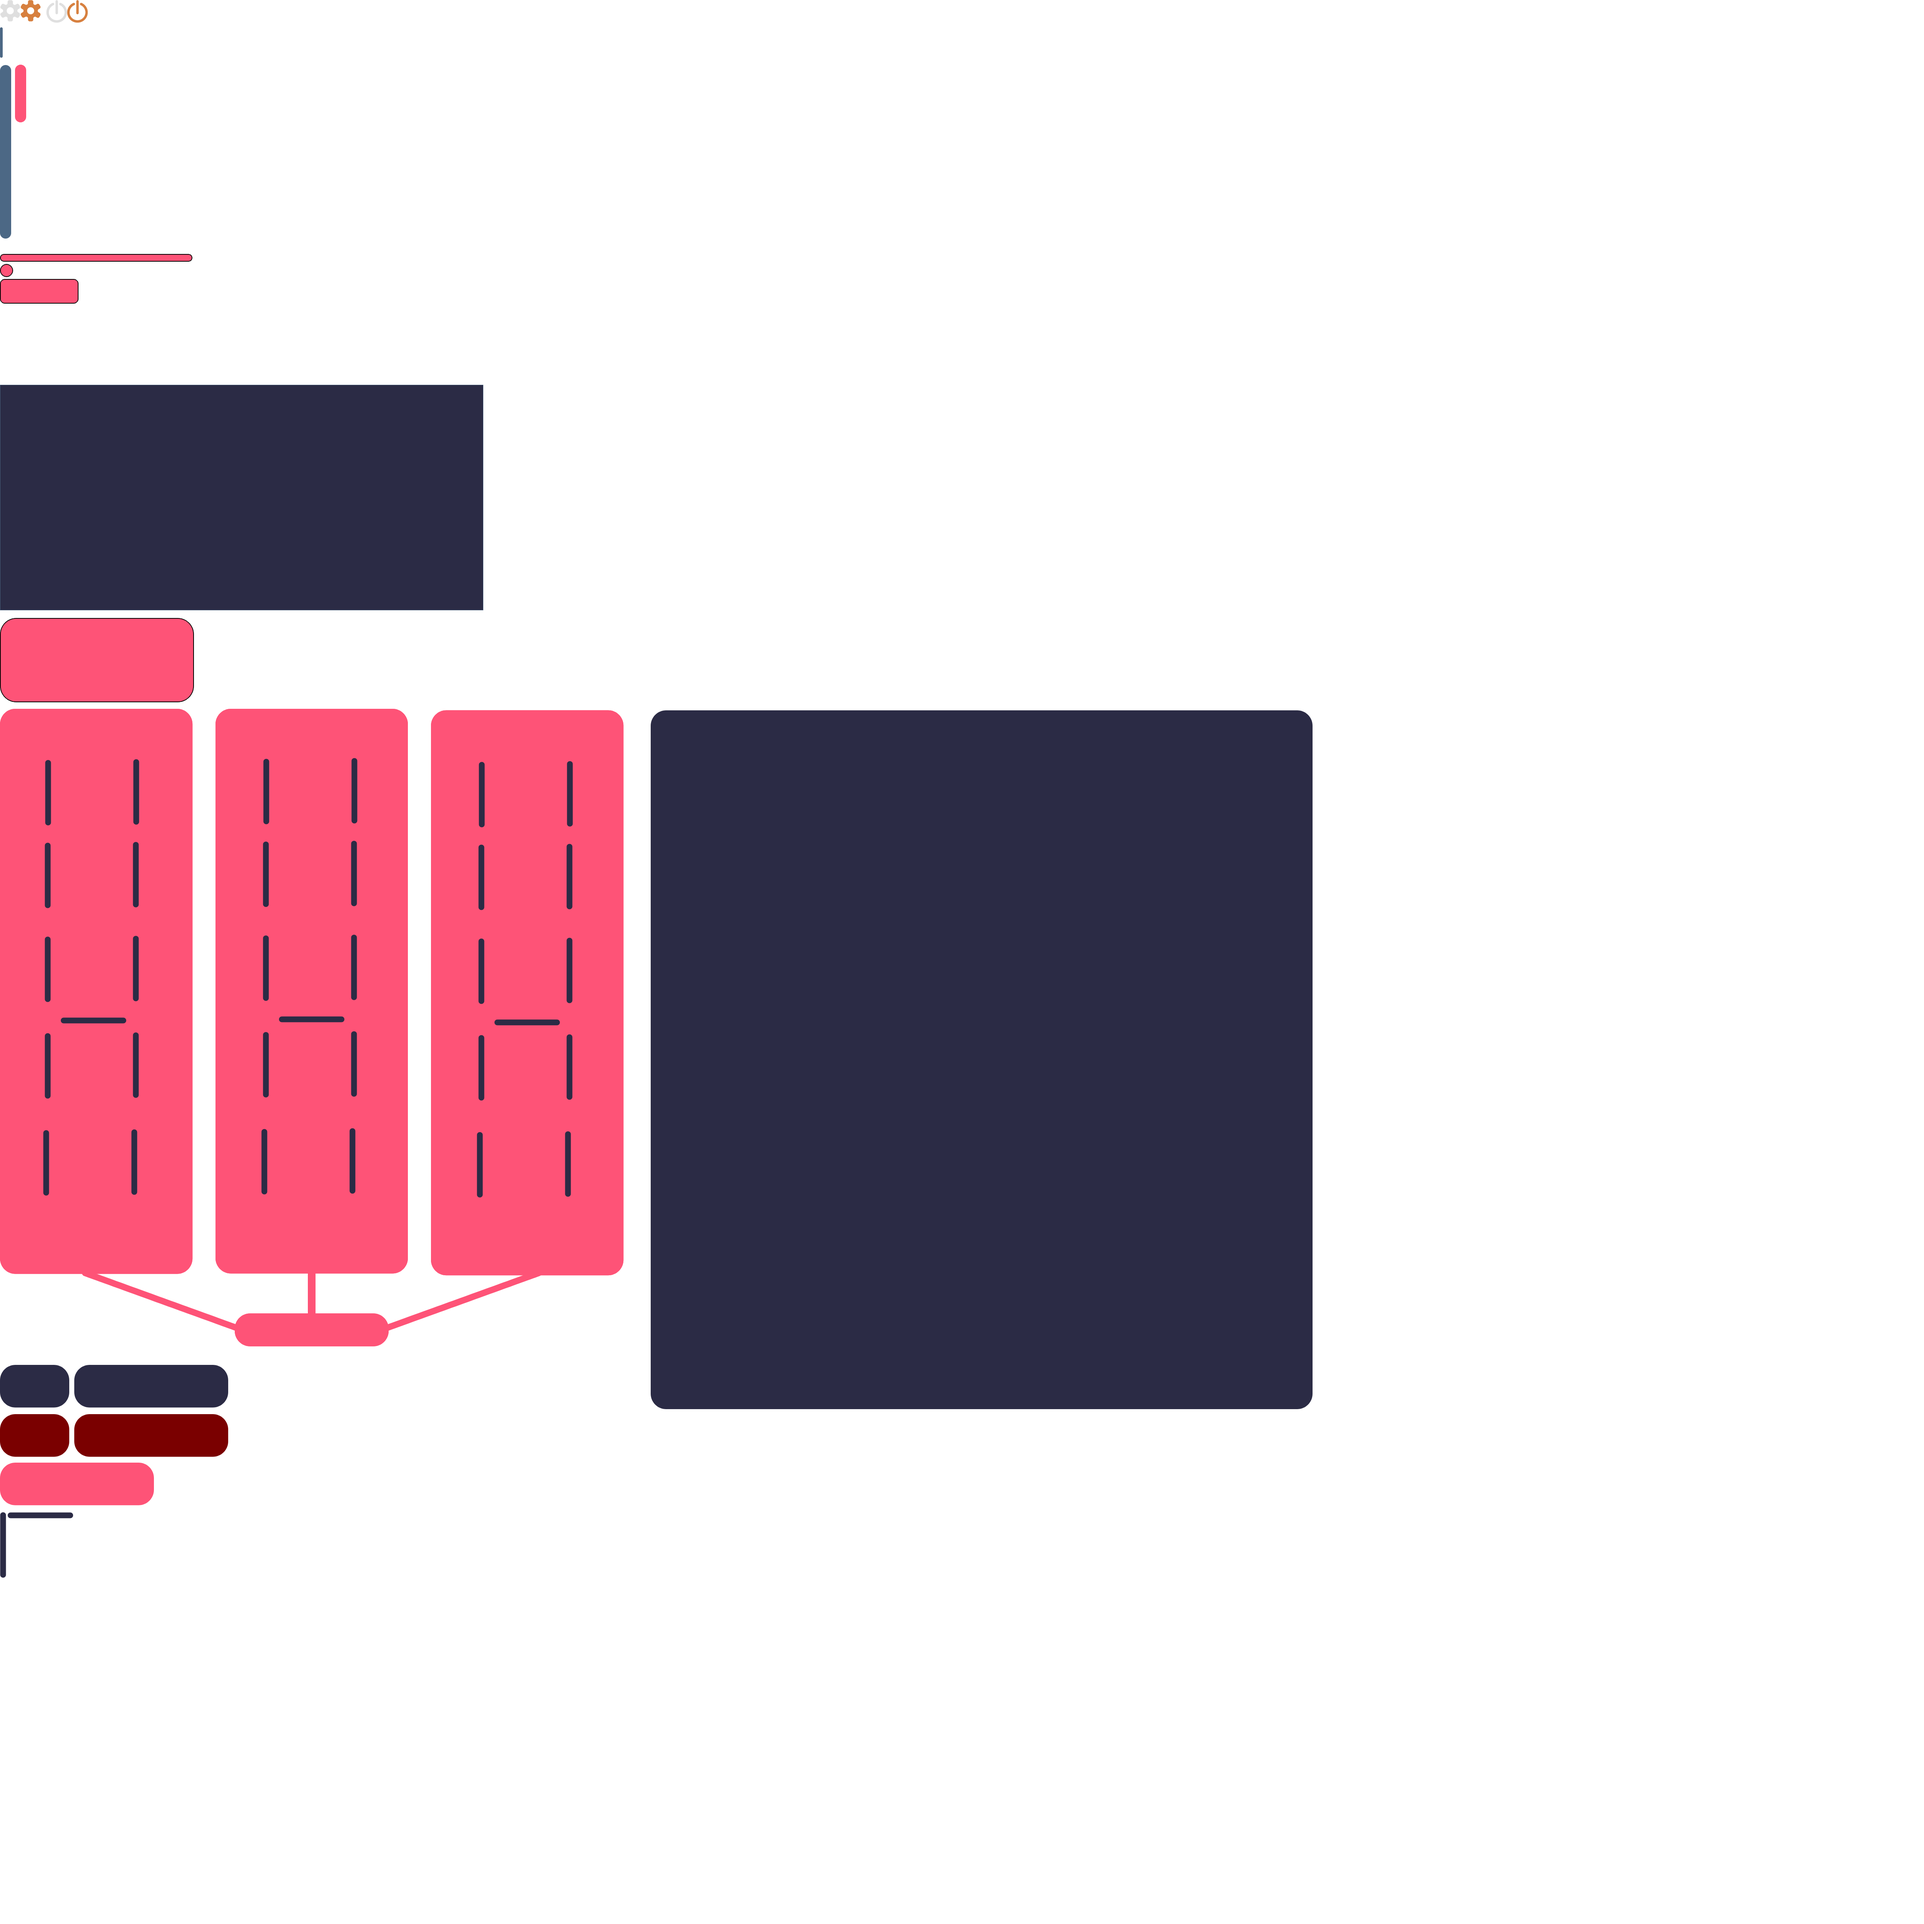
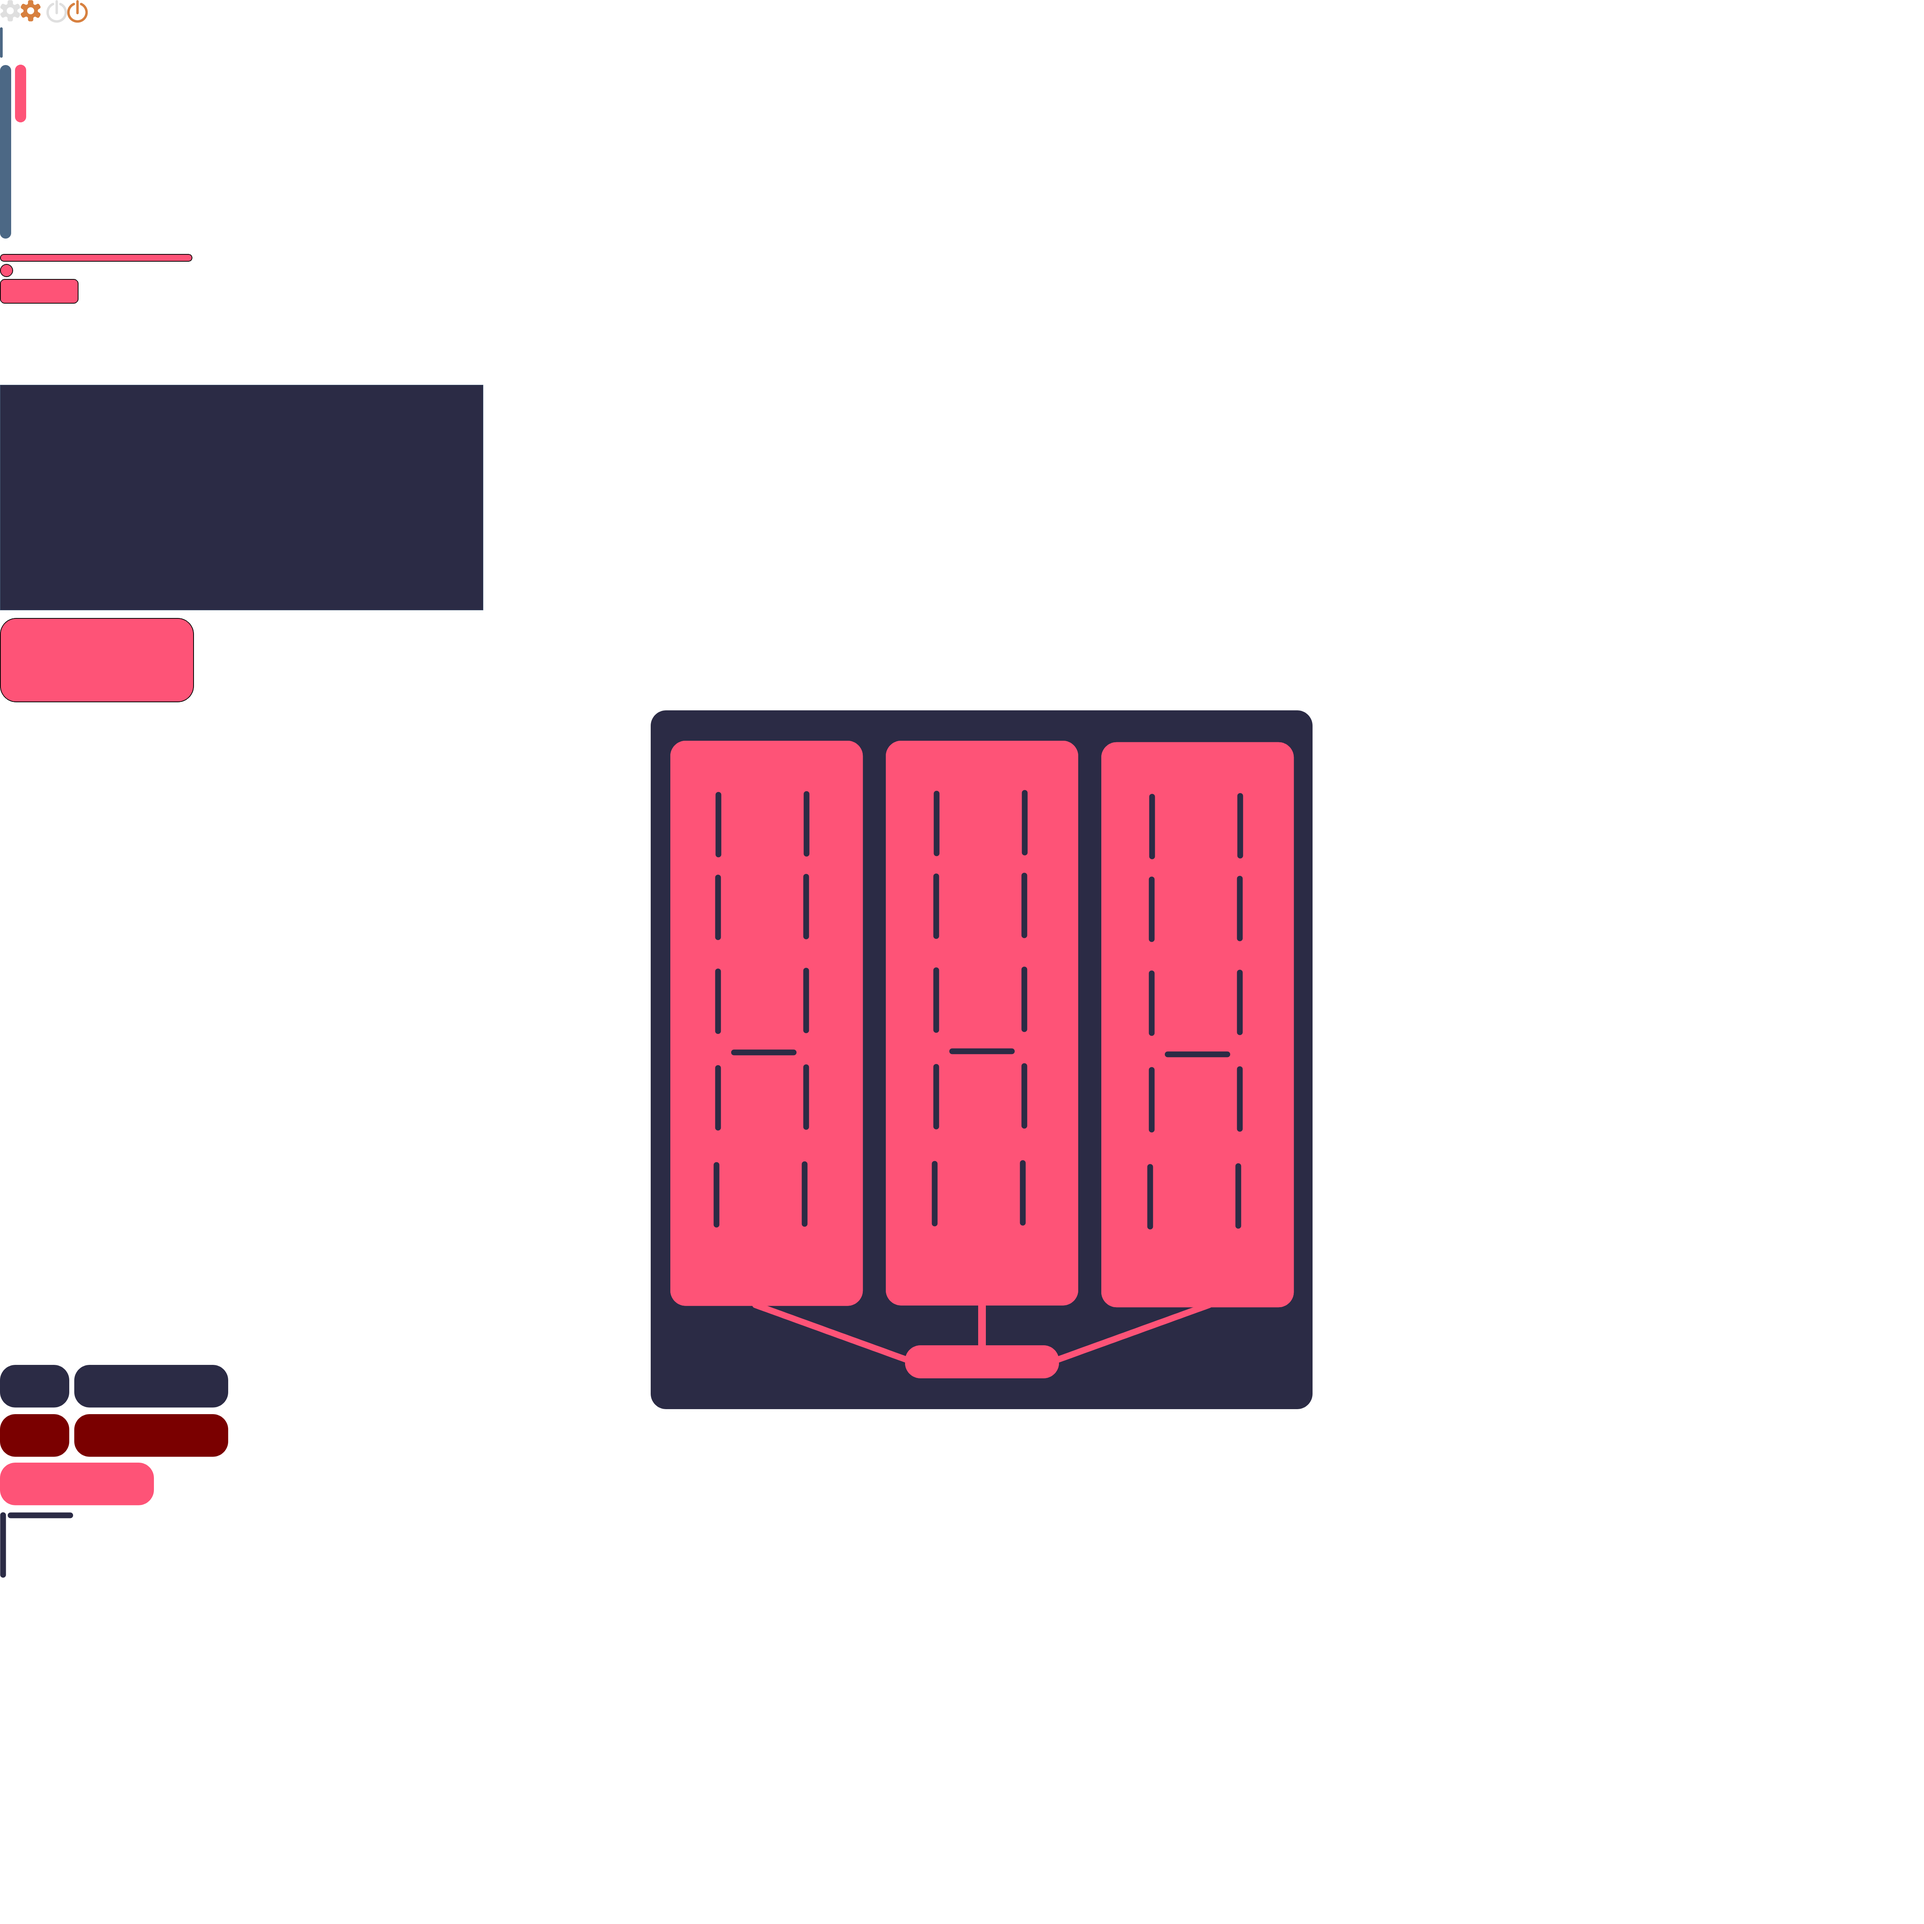
[ADD] Structures for Abilities

Changed region(s): [[0.0, 0.3432, 0.6864, 0.7176]]

diff --git a/include/data.h b/include/data.h
@@ -237,8 +237,66 @@
         sfClock *clock;
     } top_bar_t;
 
+    enum status {
+        LOCKED,
+        UNLOCKED
+    };
+
+    typedef struct ability {
+        sfSprite **rect;
+        sfText *text;
+        enum ability_status status;
+        int price;
+        sfClock *clock;
+    } ability_t;
+
+    enum abilities {
+        UTILITY_SELL_10,
+        UTILITY_SELL_20,
+        UTILITY_SELL_30,
+        UTILITY_SELL_40,
+        UTILITY_SELL_50,
+        UTILITY_CAN_BUY,
+        UTILITY_SPEED_30,
+        UTILITY_SPEED_40,
+        UTILITY_SPEED_50,
+        UTILITY_SELL_100_SPEED_100,
+        STEALTH_ILLEGAL_1,
+        STEALTH_ESCAPE_20,
+        STEALTH_ESCAPE_40,
+        STEALTH_ESCAPE_60,
+        STEALTH_ESCAPE_80,
+        STEALTH_RANGE_10,
+        STEALTH_DODGE,
+        STEALTH_ILLEGAL_2,
+        STEALTH_RANGE_30,
+        STEALTH_CARDBOARD,
+        FIGHT_BITE,
+        FIGHT_HP_20,
+        FIGHT_HP_30,
+        FIGHT_ATTACK_5,
+        FIGHT_WEAPON,
+        FIGHT_ATTACK_30,
+        FIGHT_HP_50_ATTACK_50,
+        NB_ABILITIES
+    };
+
+    typedef struct abilities {
+        ability_t **ability;
+        enum abilities abilities;
+        sfSprite *bg;
+        sfText *title;
+        sfText *title_utility;
+        sfText *title_stealth;
+        sfText *title_fight;
+        sfSprite *tree;
+        sfSprite *scrolling_bar;
+        sfSprite *scrolling_bar_inside;
+    } abilities_t;
+
     typedef struct assets {
         sfSprite *cursor;
+        abilities_t *abilities;
         appartment_t *appartment;
         museum1_t *museum1;
         museum2_t *museum2;

diff --git a/include/assets.h b/include/assets.h
@@ -22,8 +22,7 @@
     #define R_CROSS (sfIntRect) {0, 794, 38, 38}
     #define R_CHOOSE_KEY (sfIntRect) {0, 1606, 504, 219}
 
-    #define R_TREE (sfIntRect) {0, 1842, 1621, 1657}
-    #define R_ABILITIES_BLUE_BLOCK (sfIntRect) {1691, 1846, 1720, 1816}
+    #define R_TREE (sfIntRect) {1691, 1846, 1720, 1816}
     #define R_RECT_UNLOCKED (sfIntRect) {0, 3547, 400, 111}
     #define R_LITTLE_RECT_UNLOCKED (sfIntRect) {193, 3547, 180, 111}
     #define R_RECT_LOCKED (sfIntRect) {0, 3675, 400, 111}
